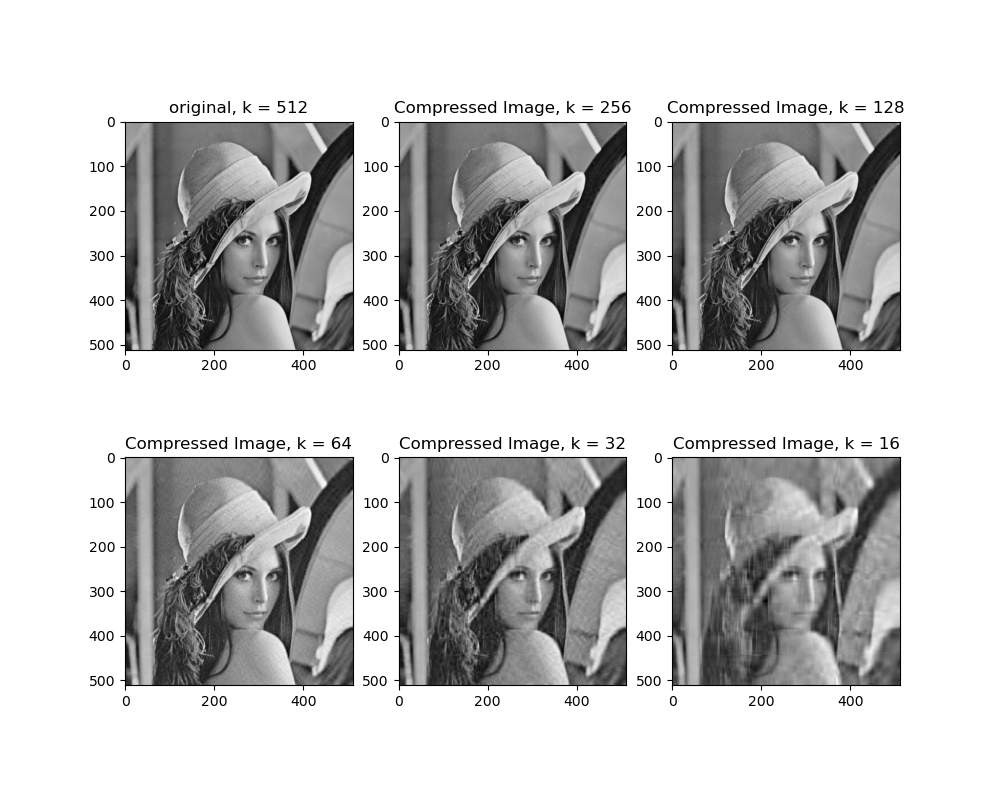
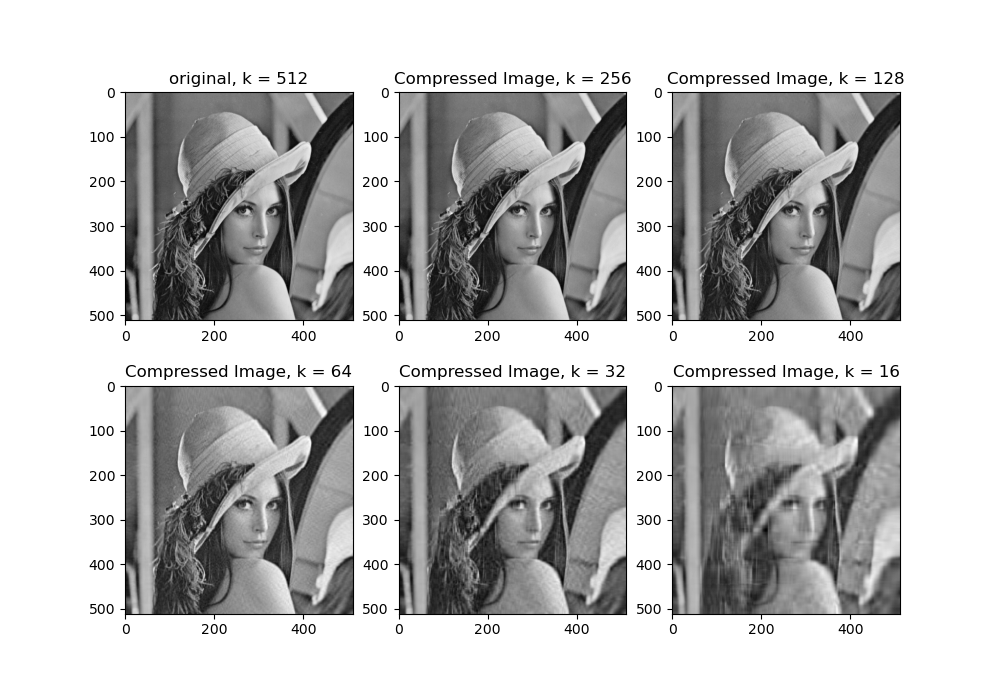
add README.MD

diff --git a/pca.py b/pca.py
@@ -11,8 +11,7 @@ img_height = img.shape[0]
 img_width = img.shape[1]
 
 
-def rgb_to_gray(img):
-    # multiply rgb to gray matrix
+def rgb_to_gray(img):  # convert rgb to gray scale image
     return np.dot(img[..., :3], [0.2989, 0.5870, 0.1140])
 
 
@@ -22,6 +21,7 @@ gray_img = rgb_to_gray(img)
 def pca_compress(k):
     pca = PCA(n_components=k)
     p = pca.fit_transform(gray_img)
+    # transfer data back to its original space
     return pca.inverse_transform(p)
 
 
@@ -39,9 +39,8 @@ def add_image(fig, img, pos, k):
         plt.imshow(img, cmap=plt.get_cmap('gray'))
 
 
-fig = plt.figure(num='PCA', figsize=(10, 8))
+fig = plt.figure(num='PCA', figsize=(10, 7))
 add_image(fig, gray_img, 1, 512)
-
 ks = [256, 128, 64, 32, 16]
 for i, k in enumerate(ks):
     add_image(fig, pca_compress(k), i+2, k)

diff --git a/README.MD b/README.MD
@@ -1,0 +1,33 @@
+# PCA
+
+Image compression implement by PCA.
+
+### Follow the instructions to run this python script
+
+1. 
+   - Windows: open Anaconda Powershell Prompt
+   - MacOS: open terminal
+2. cd to current folder
+3. setup the environment
+
+        conda env create -f environment.yml -p ./env
+        conda activate ./env
+
+ 4. run the script
+        
+        python pca.py
+
+### Supported image format
+
+- png
+- jpg
+- jpeg
+
+### Problems met
+
+- the `environment.yml` file encoded as `UTF-16 EL` when exporting the active environment through VSCode conda cli, this would cause problem dealing the import. Encoded as `UTF-8` solved.
+
+
+### Result
+
+![classification](/result.png)
